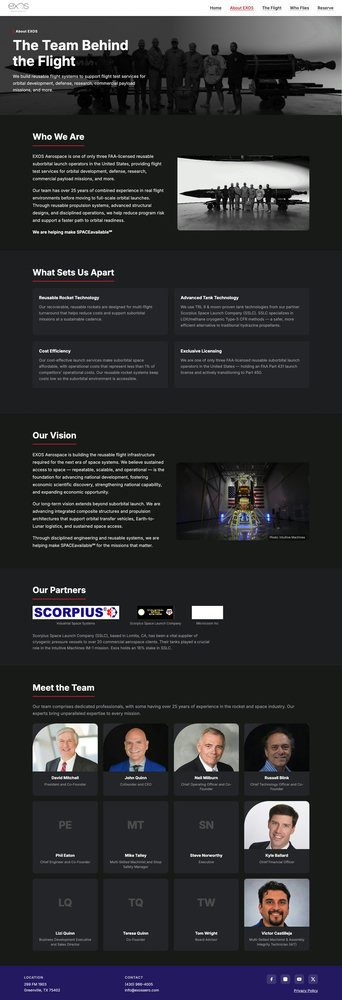
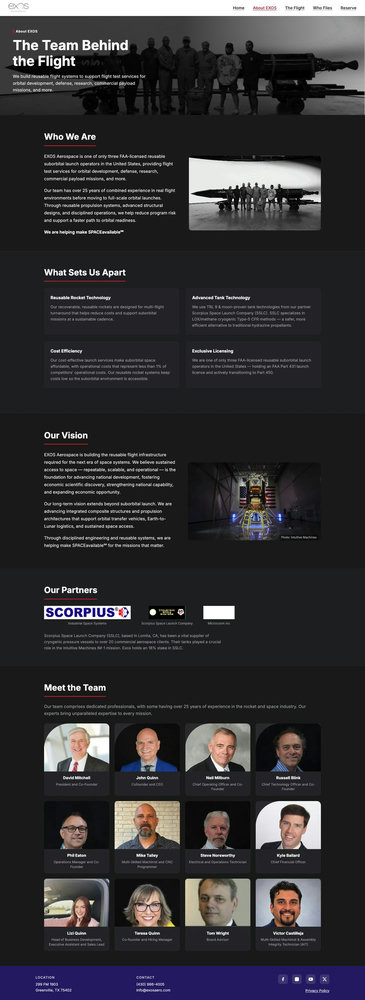
Microsite sandbox: real headshots + mockup titles on About

diff --git a/projects/spaceavailable-microsite/site/about.html b/projects/spaceavailable-microsite/site/about.html
@@ -116,7 +116,7 @@
         <span>Scorpius Space Launch Company</span>
       </div>
       <div class="partner-item">
-        <img src="img/partners/microcosm.png" alt="Microcosm Inc" />
+        <img src="img/partners/microcosm-white.png" alt="Microcosm Inc" />
         <span>Microcosm Inc</span>
       </div>
     </div>
@@ -164,26 +164,26 @@
       </div>
 
       <div class="team-card">
-        <div class="team-placeholder">PE</div>
+        <img class="team-photo" src="img/headshots/phil-eaton.jpg" alt="Phil Eaton" />
         <div class="team-info">
           <p class="team-name">Phil Eaton</p>
-          <p class="team-title">Chief Engineer and Co-Founder</p>
+          <p class="team-title">Operations Manager and Co-Founder</p>
         </div>
       </div>
 
       <div class="team-card">
-        <div class="team-placeholder">MT</div>
+        <img class="team-photo" src="img/headshots/mike-talley.jpg" alt="Mike Talley" />
         <div class="team-info">
           <p class="team-name">Mike Talley</p>
-          <p class="team-title">Multi-Skilled Machinist and Shop Safety Manager</p>
+          <p class="team-title">Multi-Skilled Machinist and CNC Programmer</p>
         </div>
       </div>
 
       <div class="team-card">
-        <div class="team-placeholder">SN</div>
+        <img class="team-photo" src="img/headshots/steve-norsworthy.jpg" alt="Steve Norsworthy" />
         <div class="team-info">
-          <p class="team-name">Steve Norworthy</p>
-          <p class="team-title">Executive</p>
+          <p class="team-name">Steve Norsworthy</p>
+          <p class="team-title">Electrical and Operations Technician</p>
         </div>
       </div>
 
@@ -196,23 +196,23 @@
       </div>
 
       <div class="team-card">
-        <div class="team-placeholder">LQ</div>
+        <img class="team-photo" src="img/headshots/lizi-quinn.jpg" alt="Lizi Quinn" />
         <div class="team-info">
           <p class="team-name">Lizi Quinn</p>
-          <p class="team-title">Business Development Executive and Sales Director</p>
+          <p class="team-title">Head of Business Development, Executive Assistant and Sales Lead</p>
         </div>
       </div>
 
       <div class="team-card">
-        <div class="team-placeholder">TQ</div>
+        <img class="team-photo" src="img/headshots/teresa-quinn.jpg" alt="Teresa Quinn" />
         <div class="team-info">
           <p class="team-name">Teresa Quinn</p>
-          <p class="team-title">Co-Founder</p>
+          <p class="team-title">Co-founder and Hiring Manager</p>
         </div>
       </div>
 
       <div class="team-card">
-        <div class="team-placeholder">TW</div>
+        <img class="team-photo" src="img/headshots/tom-wright.jpg" alt="Tom Wright" />
         <div class="team-info">
           <p class="team-name">Tom Wright</p>
           <p class="team-title">Board Advisor</p>
